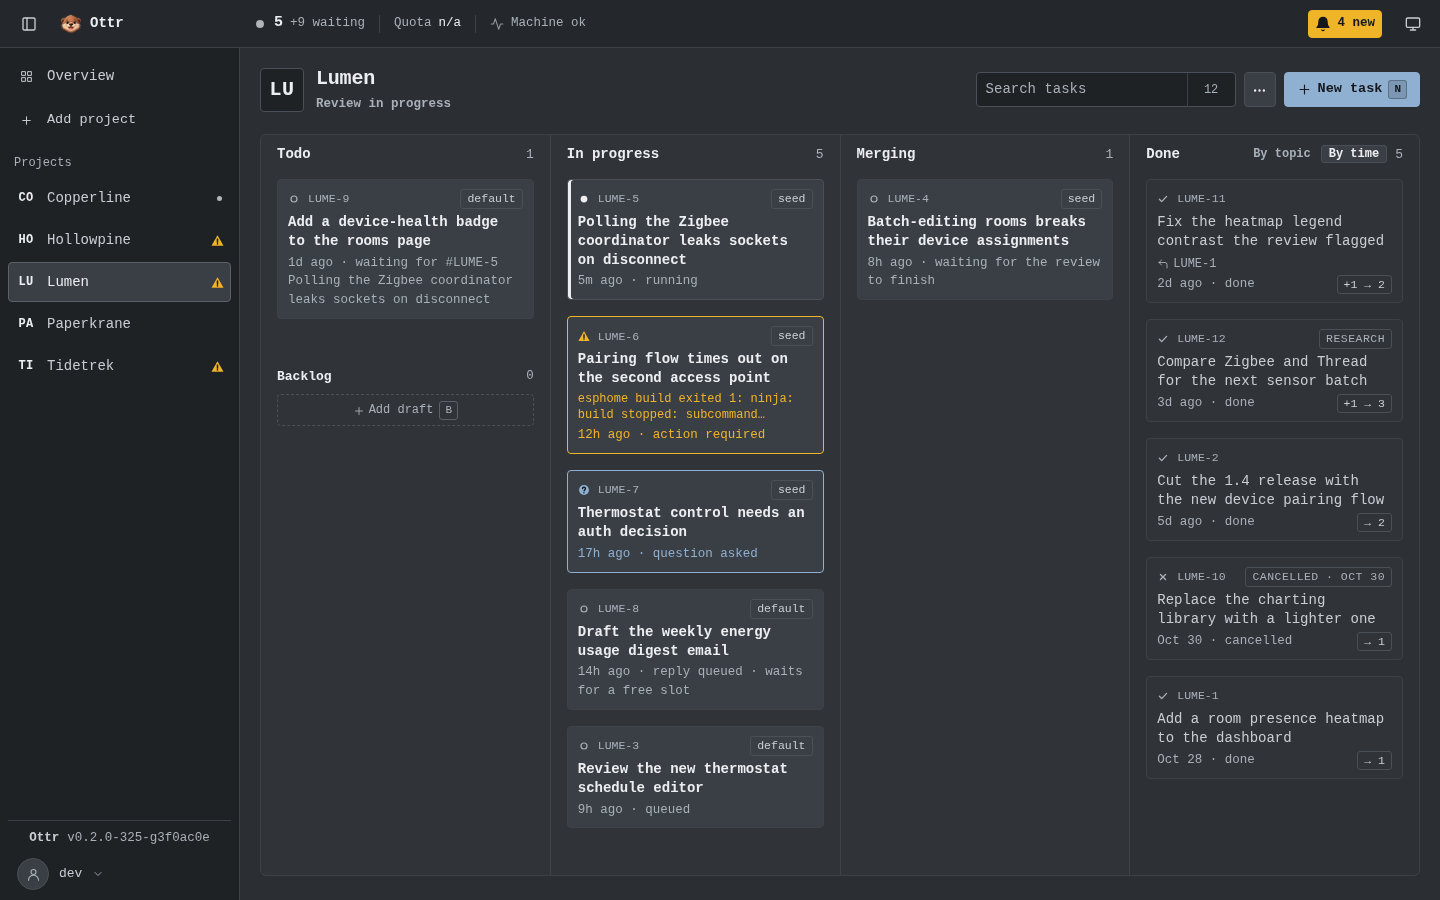
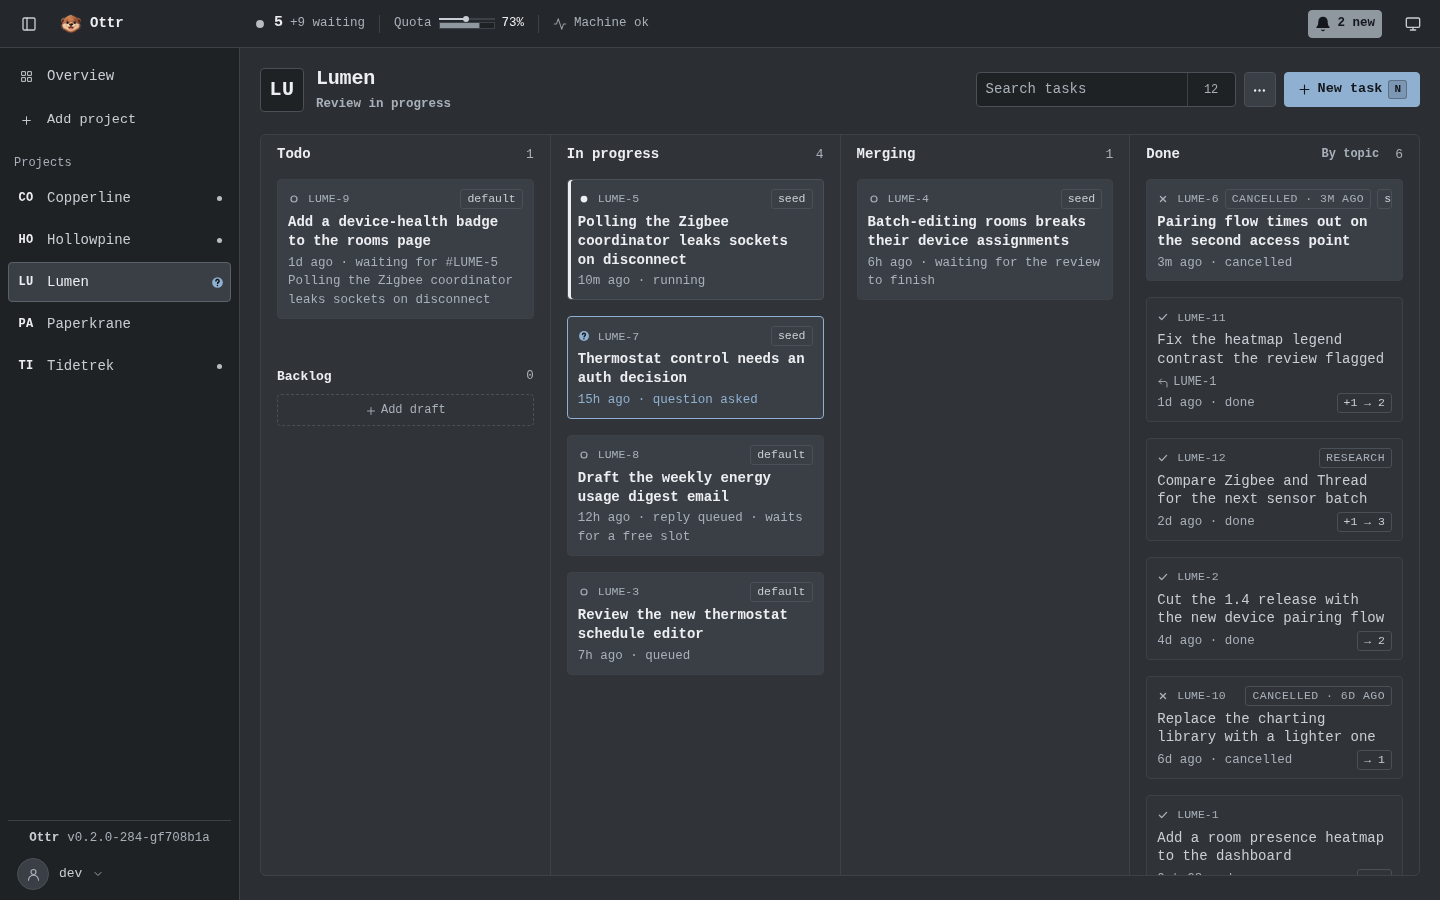
fix: restyle non-interactive steel status marks to grey
Steel filled the unread badge, the lit bell's new-question and new-notice
state, and the stage tab's ask chip — marks nothing can click, which blurred
the One-Edge Rule (steel blue is the only interactive colour). The decision:
steel stays clickable-only. The three marks now fill --normal-fill with
--on-grey ink (>=4.5:1 in both themes), shapes and mark semantics unchanged;
DESIGN.md's Notifications and Field Grey sections state the rule.

diff --git a/src/ui/app.css b/src/ui/app.css
@@ -18,7 +18,7 @@
 	--accent-ink: #14181d;
 	--accent-bg: #26303a;
 	--accent-line: #46596e;
-	--normal-fill: #8f979f; /* indicator fill inside the normal band */
+	--normal-fill: #8f979f; /* indicator fill inside the normal band; the solid fill of non-interactive status marks */
 	--alarm: #f0b429; /* needs you, above the normal band */
 	--alarm-bg: #3b3322;
 	--alarm-line: #6b5627;
@@ -29,6 +29,7 @@
 	--crit-text: #ffb4ae; /* crit-coloured text on normal surfaces */
 	--on-alarm: #14181d; /* ink on a solid amber fill */
 	--on-crit: #1d0d0c; /* ink on a solid red fill */
+	--on-grey: #14181d; /* ink on a solid grey fill: status you cannot click */
 	--diff-add: #7cc97f; /* added diff lines: the one non-alarm colour, diff text only */
 	--diff-add-bg: rgb(63 138 66 / 0.16);
 	--line-hover: #5a616a;
@@ -62,7 +63,7 @@
 	--accent-ink: #f2f7fc;
 	--accent-bg: #e7eef5;
 	--accent-line: #b0c6dc;
-	--normal-fill: #8a929b;
+	--normal-fill: #8a929b; /* indicator fill inside the normal band; the solid fill of non-interactive status marks */
 	--alarm: #9a6a00;
 	--alarm-bg: #f9f0d8;
 	--alarm-line: #d8b96a;
@@ -73,6 +74,7 @@
 	--crit-text: #b3261e;
 	--on-alarm: #ffffff;
 	--on-crit: #ffffff;
+	--on-grey: #14181d; /* ink on a solid grey fill: status you cannot click */
 	--diff-add: #1a7f37;
 	--diff-add-bg: rgb(52 153 77 / 0.14);
 	--scrim: rgba(30, 34, 40, 0.4);
@@ -1424,8 +1426,9 @@ textarea {
 
 /* ---- Notification bell (the inbox in the app bar) ----
    Clear: grey bell. Standing: the most urgent mark plus the total (grey for notices).
-   Lit: solid fill in the most urgent NEW entry's hue, ink on it, the inverted mark and
-   "N new"; the fill is the signal, the mark and the word keep it readable without colour. */
+   Lit: solid fill in the most urgent NEW entry's colour — alarm hue, or the grey status
+   fill for asks and notices — ink on it, the inverted mark and "N new"; the fill is the
+   signal, the mark and the word keep it readable without colour. */
 .inbox {
 	gap: 6px;
 }
@@ -1439,8 +1442,9 @@ textarea {
 }
 .inbox[data-level="asked"],
 .inbox[data-level="info"] {
-	--lit: var(--accent);
-	--lit-ink: var(--accent-ink);
+	/* New question or notice: the grey status fill — steel stays clickable-only (One-Edge). */
+	--lit: var(--normal-fill);
+	--lit-ink: var(--on-grey);
 }
 .inbox-n {
 	font-size: 12.5px;
@@ -1464,8 +1468,8 @@ textarea {
 .inbox.lit .inbox-n {
 	color: inherit;
 }
-/* No mark on the bell: the bell itself carries the level. While something needs you it fills in
-   the level colour and the count stays white; new notices fill the whole button and the bell turns ink. */
+/* No mark on the bell: the bell itself carries the level. While an alarm tops the inbox it
+   fills in the alarm's hue and the count stays white; a new ask or notice fills grey and the bell turns ink. */
 .inbox:is([data-level="needs"], [data-level="crit"], [data-level="asked"]):not(
 		.lit
 	)
@@ -2975,7 +2979,7 @@ a.release:hover {
 	color: var(--accent-hover);
 	border-color: var(--accent);
 }
-/* Inbox badge: a done card with something to read whose drawer never opened; opening clears it (a steps report only its drawer buttons clear). */
+/* Inbox badge: a done card with something to read whose drawer never opened; opening clears it (a steps report only its drawer buttons clear). Grey status fill — steel stays clickable (One-Edge Rule). */
 .card .unread {
 	flex-shrink: 0;
 	padding: 0 6px;
@@ -2983,8 +2987,8 @@ a.release:hover {
 	font-size: 11.5px;
 	font-weight: 500;
 	line-height: 18px;
-	color: var(--accent-ink);
-	background: var(--accent);
+	color: var(--on-grey);
+	background: var(--normal-fill);
 	border-radius: 3px;
 }
 /* Task key: the speaking id (e.g. OTTR-1) leads the card's head as quiet mono metadata. */
@@ -3157,9 +3161,9 @@ a.release:hover {
 }
 /* The alarm chip on a stage tab: solid fill in the alarm's hue, ink on it, the inverted
    mark and the count — the lit-bell language. The fill pins the chip to its own tab, so a
-   squeezed strip cannot leave it adrift between neighbours. Ask rounds ride the steel
-   accent: input requested, not a stall. Same tokens as the card alarm coding, so the tab
-   echoes the card it points at. */
+   squeezed strip cannot leave it adrift between neighbours. Ask rounds fill the grey
+   status colour — input requested, not a stall, and steel stays clickable-only (One-Edge
+   Rule). Same tokens as the card alarm coding, so the tab echoes the card it points at. */
 .count.needs {
 	display: inline-flex;
 	align-items: center;
@@ -3178,12 +3182,12 @@ a.release:hover {
 	stroke: var(--alarm); /* inverted mark, so it reads on the solid fill */
 }
 .count.needs.asked {
-	color: var(--accent-ink);
-	background: var(--accent);
-	border-color: var(--accent);
+	color: var(--on-grey);
+	background: var(--normal-fill);
+	border-color: var(--normal-fill);
 }
 .count.needs.asked .mark-ink {
-	stroke: var(--accent);
+	stroke: var(--normal-fill);
 }
 /* Landed work recedes: recessed stock, lighter title weight. A review parked at merging is
    idle too but not landed; it waits like a queued card (see cardMark in status.ts). */

diff --git a/DESIGN.md b/DESIGN.md
@@ -99,7 +99,7 @@ The palette is four neutral greys plus a recessed well, one steel interaction ac
 
 **Tertiary — Critical Red** (`#e5534b`): offline, failed actions, critical load. Shape: the "!" square. Banner tints `#472326` / `#6b2d30`; on-red text `#ffd0cc`.
 
-**Neutral — Field Grey** (`#c9ced4`): body text. Surfaces step darker-to-lighter: field `#2b2e32`, chrome `#24272b`, panel `#303338`, card `#3a3f45`, hover `#41464d`, recessed well `#1f2225`. Lines `#4a5057` (strong) and `#3d4248` (soft). Values read brighter at `#eceef1`; secondary text `#a8b0b9` holds at least 4.5:1 on cards. Indicator fill inside the normal band is `#8f979f` — visible, but grey.
+**Neutral — Field Grey** (`#c9ced4`): body text. Surfaces step darker-to-lighter: field `#2b2e32`, chrome `#24272b`, panel `#303338`, card `#3a3f45`, hover `#41464d`, recessed well `#1f2225`. Lines `#4a5057` (strong) and `#3d4248` (soft). Values read brighter at `#eceef1`; secondary text `#a8b0b9` holds at least 4.5:1 on cards. Indicator fill inside the normal band is `#8f979f` — visible, but grey. The same pair is the solid fill of non-interactive status marks: the unread badge on done cards, the bell's new-question and new-notice fill, and the stage tab's ask chip — `--on-grey` ink on `#8f979f` (dark) / `#8a929b` (light), because steel is reserved for clickable things.
 
 **The Grey-Is-Normal Rule.** Colour is an alarm channel. If a state is fine, it renders in grey; amber and red are reserved for needs-you and critical, respectively. A setup problem that stops every worker counts as needs-you: a missing agent server shows an amber callout on the Overview's Setup tab, and the tab label turns amber. Other setup hints keep the grey warning mark.
 
@@ -149,7 +149,7 @@ A rounded child inside a rounded parent never has a radius ≥ the parent's; wit
 - **Area list item** — 36px row, transparent line; hover shows panel grey; the current page carries the steel border — the One-Edge in navigation.
 - **Project tag** — a two-letter plate (initials of the first two words of the project name, else its first two letters) in bright bold ink on the recessed `--well` fill, 1px strong line, 3px radius. It is 22px in the area list, the overview table and the New task and Add draft dialogs, and 44px in the project header. A project with an icon shows the icon in the plate instead of the letters: an uploaded icon (project Settings) wins, then the source's icon (the GitHub owner's avatar, else the host's favicon), and only a project with neither shows the two letters. Projects differ by letter shape, never by hue: hue stays an alarm channel. The project header shows no branch and no path, because workers run the tasks. Under 720px the header's meta line (release, image, source link) flows beside the name and wraps below only when the row is full.
 - **Meter** — 56×8px recessed track with a 1px band-limit tick at 85%; fill ramps via transform (0.4s, `--ease`) and turns amber above the band, red at critical. The value beside it gains the matching mark.
-- **Notifications** — one bell holds the bar's right end on every viewport; the bar never adds or removes notification icons. The bell has three states. Clear: no entries, grey. Standing: entries exist and all are acknowledged; the bell shows the most urgent entry's state mark (a red square, an amber triangle, a steel question mark, none for notices) and the count in bright tabular figures, grey for notices only. Lit: a solid fill in the hue of the most urgent NEW entry — red, amber or steel, with `--on-crit` / `--on-alarm` / `--accent-ink` ink, the mark inverted, and "N new" (under 720px the fill carries "new" and the bar shows only N). The mark enters once in 220ms and never blinks. Opening the Popover API panel acknowledges every entry; the acknowledgement persists per browser, and an entry that clears loses it, so a recurrence lights the bell again. The panel lists entries by priority (Critical, Action required, Questions, Upstream updates, Notices, Advisories), with needs-you tasks as row links and a steel "New" chip (3px radius) on rows that were new when the panel opened. An "All clear" state ("Tasks that need you, failed actions and Ottr notices appear here.") fills the empty panel, and the desktop-notifications switch sits at its foot, hidden on touch screens, which use push.
+- **Notifications** — one bell holds the bar's right end on every viewport; the bar never adds or removes notification icons. The bell has three states. Clear: no entries, grey. Standing: entries exist and all are acknowledged; the bell shows the most urgent entry's state mark (a red square, an amber triangle, a steel question mark, none for notices) and the count in bright tabular figures, grey for notices only. Lit: a solid fill in the most urgent NEW entry's colour — red or amber with `--on-crit` / `--on-alarm` ink; a new question or notice fills grey (`--normal-fill` with `--on-grey` ink), because steel is for clickable things only — the mark inverted, and "N new" (under 720px the fill carries "new" and the bar shows only N). The mark enters once in 220ms and never blinks. Opening the Popover API panel acknowledges every entry; the acknowledgement persists per browser, and an entry that clears loses it, so a recurrence lights the bell again. The panel lists entries by priority (Critical, Action required, Questions, Upstream updates, Notices, Advisories), with needs-you tasks as row links and a steel "New" chip (3px radius) on rows that were new when the panel opened. An "All clear" state ("Tasks that need you, failed actions and Ottr notices appear here.") fills the empty panel, and the desktop-notifications switch sits at its foot, hidden on touch screens, which use push.
 - **Card** — 4px radius, `--card` stock, soft line; hover lifts to card-hover and the strong line; the whole card is the hit area for opening. A head line holds the state mark, the task key in quiet mono, and the chips. Below it, the name uses the full width of the card, flush with the excerpt and the meta line. needs-you cards take the amber border; landed (idle) cards recede to panel stock and weight-500 title.
 - **Dialogs and drawer** — native `<dialog>` in the top layer: field-grey surface, 1px line, 6px radius, overlay shadow, 60%-black backdrop, 160ms rise. The drawer slides from the right in 200ms.
 - **System popover** — Popover API panel anchored under the bar meters (CSS anchor positioning where supported), showing a key-value readout of the 15-minute CPU and RAM averages in tabular figures, and provider quota: one grid of meters (label, track, value, reset countdown) grouped by provider, so every track lines up. The bar carries only the tightest quota window — the one that stops agents first. The panel scrolls inside the viewport and spans the screen on phones. Every popover panel (meters detail, notifications, areas, theme, the model and thinking pickers) grows in from its anchor edge — scale 0.95 to 1 over 160ms on the shared easing, top-left for the anchored panels, top-right for the bar menus; under reduced motion only the fade remains.
